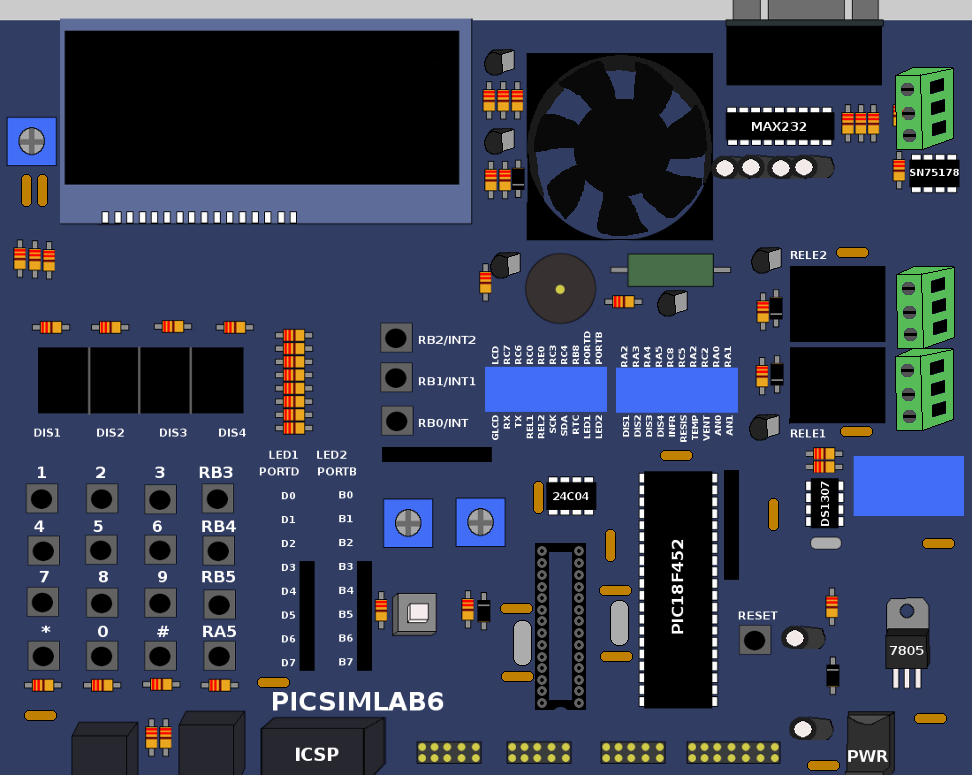
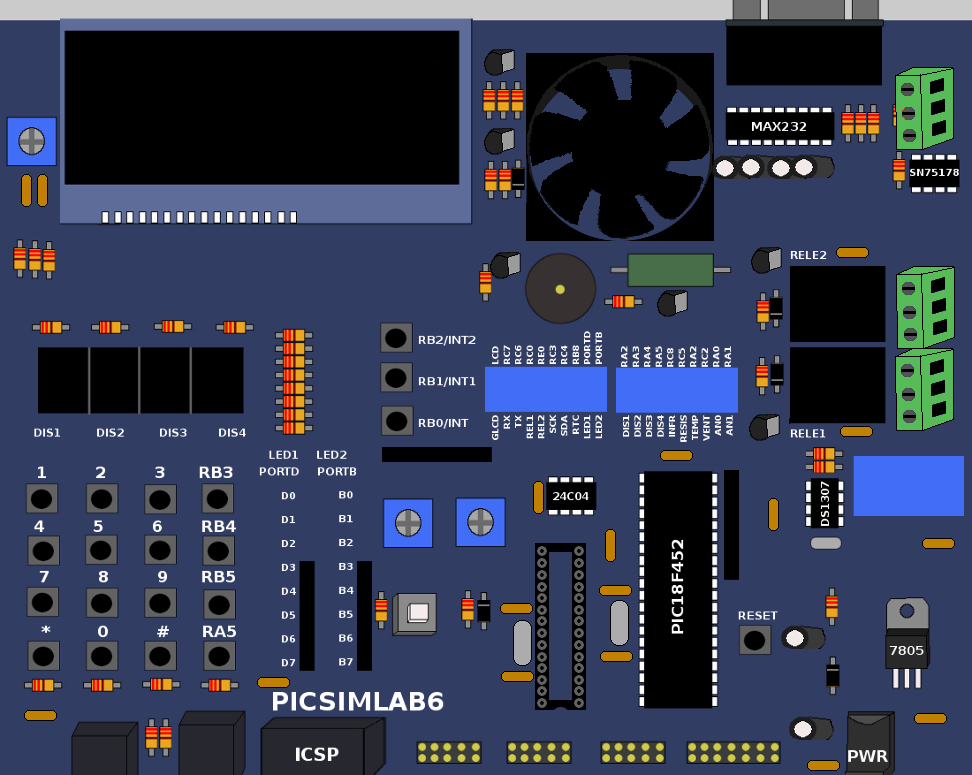
Animated cooler implemented

diff --git a/lab/board_4.cc b/lab/board_4.cc
@@ -1,6 +1,9 @@
 
 #include"picsimlab1.h"
 
+int vtc =0;
+int vt=0;
+
 void
 CPWindow1::board_4(void)
 {
@@ -47,7 +50,7 @@ CPWindow1::board_4(void)
            lcd.blink=0;   
   
 
-//lab5 draw 
+//lab4 draw 
   for(i=0;i<outputc;i++)
   {
     if(!output[i].r)
@@ -116,9 +119,24 @@ CPWindow1::board_4(void)
            };
       }
      
-      if(output[i].id != O_LCD)
+      if((output[i].id != O_LCD)&&(output[i].id != O_VT))  
         draw1.Canvas.Rectangle (1, output[i].x1, output[i].y1, output[i].x2-output[i].x1,output[i].y2-output[i].y1 );
- 
+
+
+//draw cooler //FIXME cooler draw!!!
+      if(output[i].id == O_VT)
+      { 
+        if(gauge1.GetValue() > 20) vtc++;
+        
+        if(vtc > (4  - 0.04*gauge1.GetValue()) )
+        {
+          vtc=0;
+          draw1.Canvas.PutBitmap(vent[vt],output[i].x1, output[i].y1);
+          vt^=1; 
+        }    
+        
+      }
+      
 //draw lcd text 
       if(dip[0]) 
       {

diff --git a/lab/picsimlab1.cc b/lab/picsimlab1.cc
@@ -1379,6 +1379,16 @@ create++;
 
   Application->ProcessEvents();
 
+  if(vent[0] == NULL)
+  {      
+     wxImage  image;
+     image.LoadFile(String().Format("%sVT1.png",share));
+     vent[0] = new wxBitmap(image);
+     image.LoadFile(String().Format("%sVT2.png",share));
+     vent[1] = new wxBitmap(image);
+  }
+       
+  
 
   timer1.SetRunState(1);
 };
@@ -1532,6 +1542,12 @@ CPWindow1::_EvOnDestroy(CControl * control)
   rtc_end(&rtc);
   rtc2_end(&rtc2);
   prog_end();
+  
+   if(vent[0] != NULL)
+   { 
+      delete vent[0];
+      delete vent[1];
+   }
 
 };
 

diff --git a/lab/id.cc b/lab/id.cc
@@ -109,6 +109,7 @@ unsigned short get_out_id(char * name)
   if(strcmp(name,"DP18")==0)return O_D18;
   if(strcmp(name,"DP19")==0)return O_D19;
   if(strcmp(name,"DP20")==0)return O_D20;
+  if(strcmp(name,"VT")==0)  return O_VT;
 
   printf("Erro output '%s' don't have a valid id! \n",name);
   return 1;

diff --git a/lab/picsimlab1.h b/lab/picsimlab1.h
@@ -183,6 +183,8 @@ int plHeight;
 double scale;
 
 int create;
+        
+wxBitmap * vent[2];
 
 };
 

diff --git a/lab/id.h b/lab/id.h
@@ -102,6 +102,8 @@
 #define O_D19	88
 #define O_D20	89
 
+#define O_VT	90
+
 
 
 /*inputsa*/

diff --git a/lab/picsimlab1_d.cc b/lab/picsimlab1_d.cc
@@ -464,4 +464,7 @@ scale=1.0;
 
 create=0;
 
+vent[0]=NULL;
+vent[1]=NULL;
+
 };
